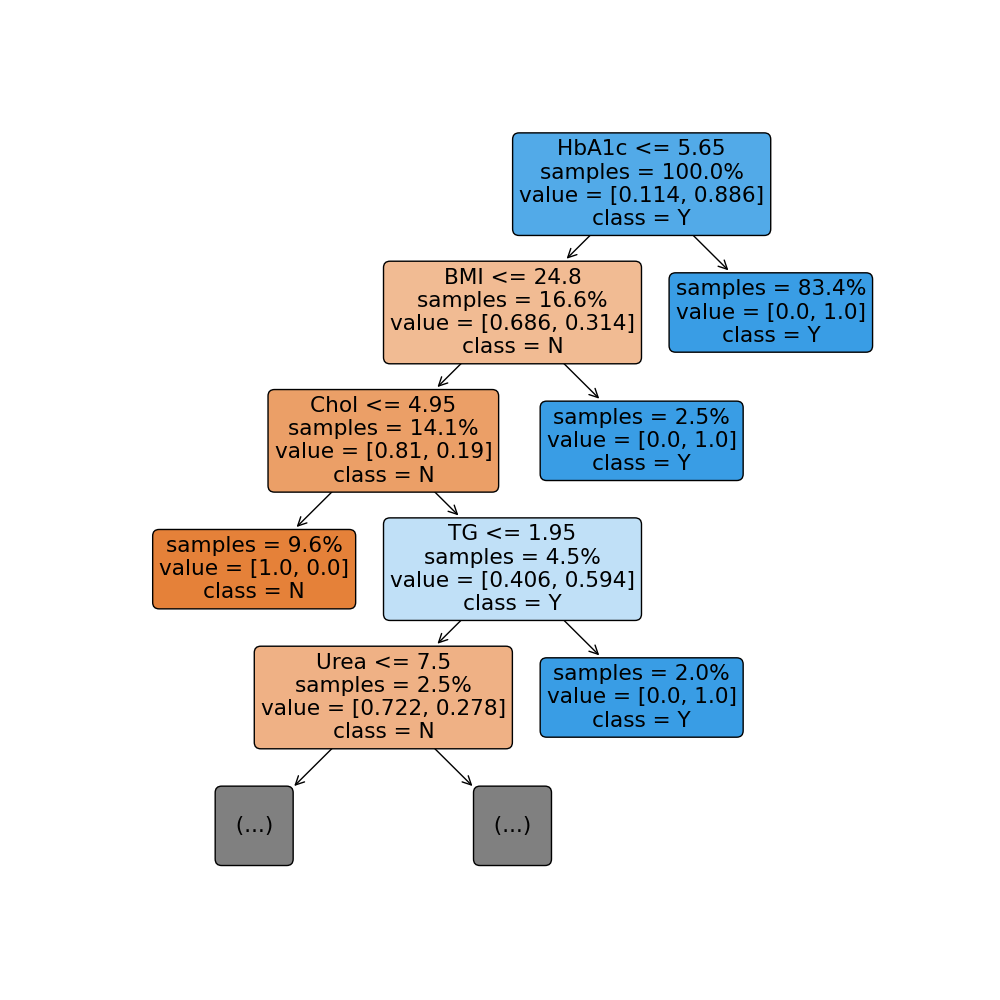
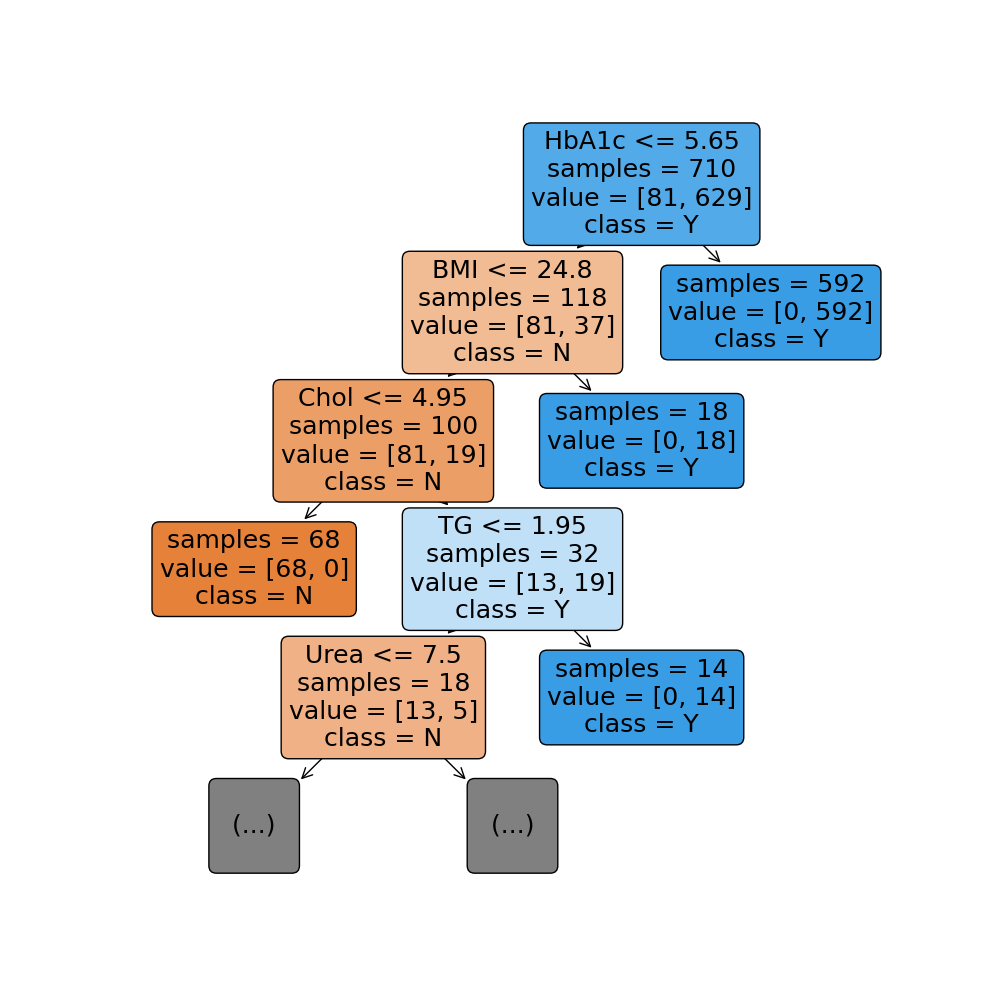
Made the graph have integers instead of proportions

Changed region(s): [[0.124, 0.124, 0.899, 0.899]]

diff --git a/Models/Decision_Tree.py b/Models/Decision_Tree.py
@@ -33,7 +33,7 @@ _ = plot_tree(tree,
                    filled=True,
                    impurity=False,
                    rounded=True,
-                   proportion=True,
+                   #proportion=True,
                    max_depth=4)
 
 fig.savefig("decision_tree(1).png")
